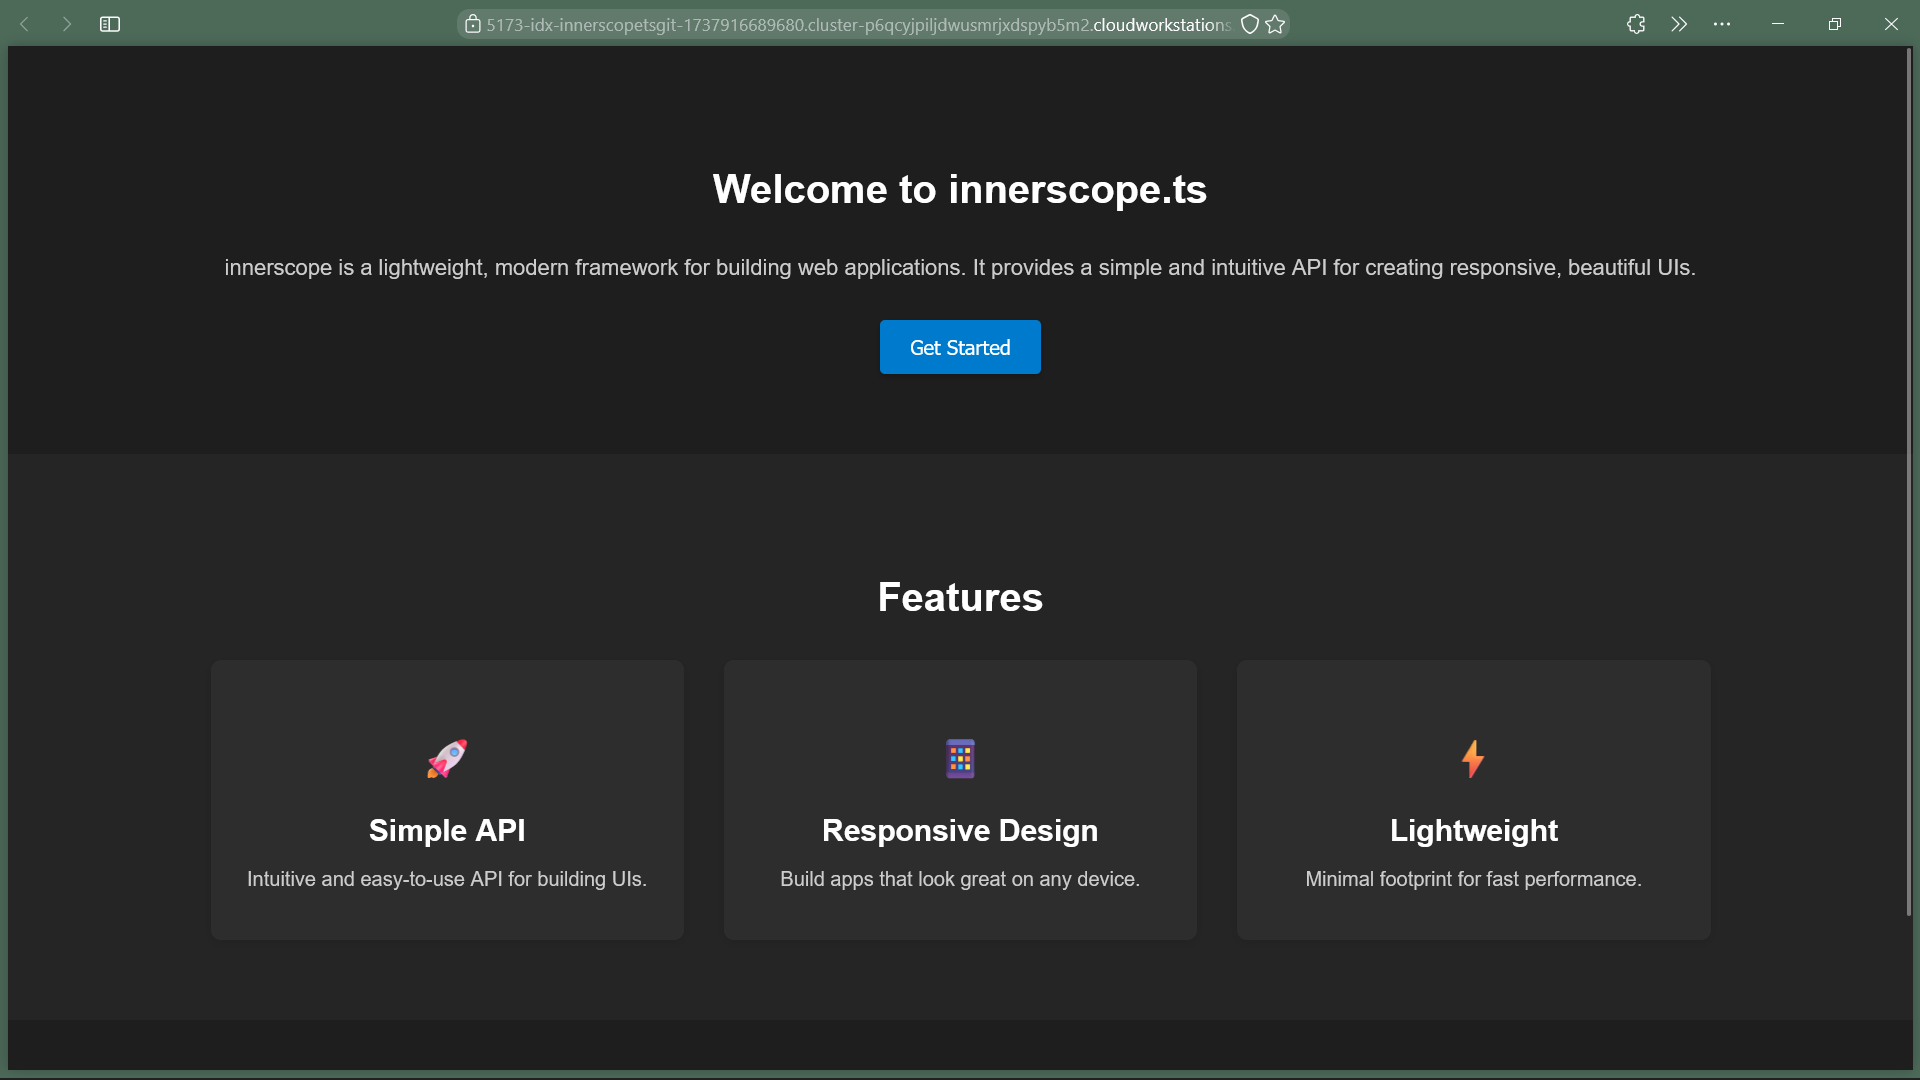
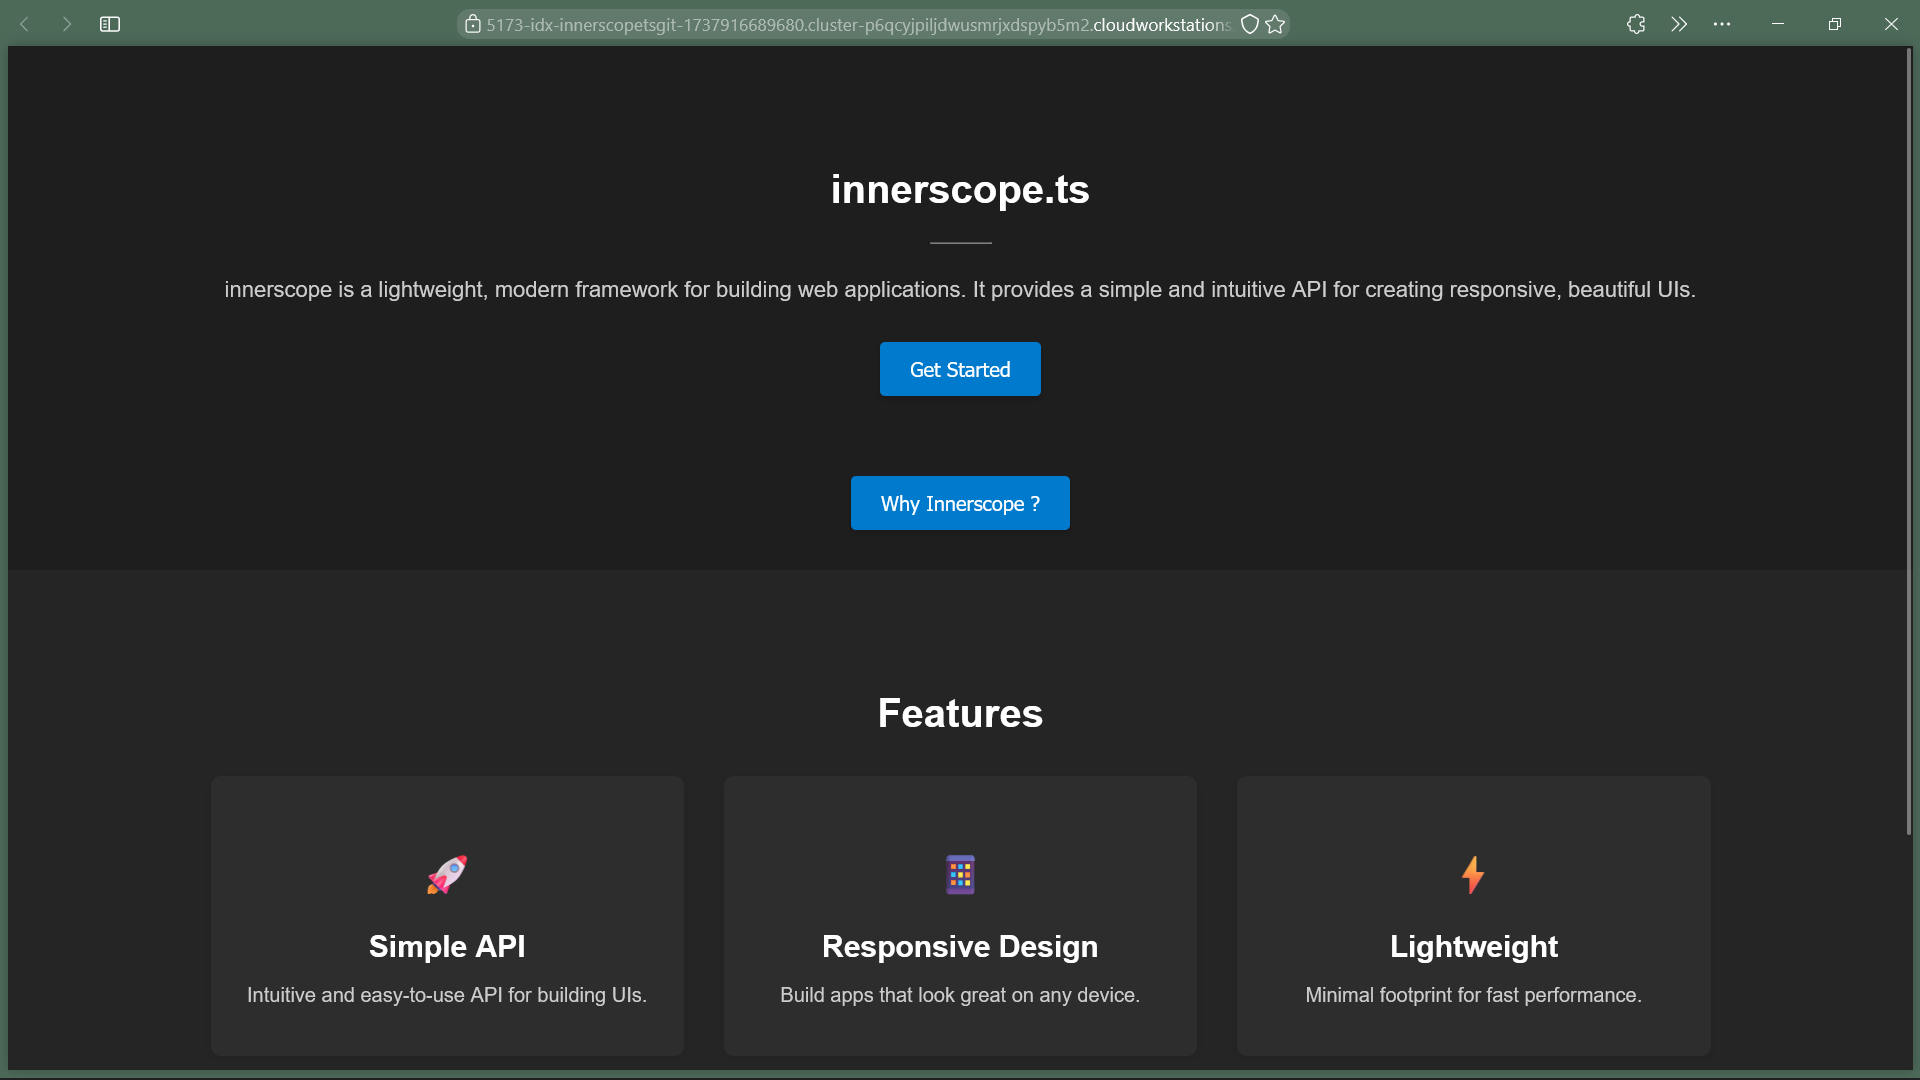
added useState (Signal Based) Hook, added showIF (Conditional Rendering) updated docs, and main.ts example

diff --git a/Lib/+innerscope.ts b/Lib/+innerscope.ts
@@ -1,3 +1,7 @@
+import { useState, showIF } from "./reactivity.js";
+
+export { useState, showIF }
+
 interface ApplicationConfig {
     title: string;
     icon: string;
@@ -20,14 +24,13 @@ export class Application {
             document.head.appendChild(meta);
         }
         cfg.title ? (document.title = cfg.title) : null;
-        //@ts-ignore
+        //@ts-ignore : TS does not have that function in type definition.
         cfg.orientation ? screen.orientation.lock(cfg.orientation) : null;
     }
 
     onExit(Fn: Function) {
         window.addEventListener("beforeunload", (event) => {
             event.preventDefault();
-            event.returnValue = "";
             Fn(event);
         });
     }
@@ -98,6 +101,7 @@ export class LayoutConstructor implements Parent {
     layout: HTMLElement;
     children: HTMLElement[];
     style: CSSStyleDeclaration;
+    
     constructor(layout_type: Layout_Types, parent: Parent | HTMLElement) {
         this.layout = new ElementContructor("div", parent).element;
         this.layout.className = `${layout_type}-layout show`;
@@ -107,16 +111,32 @@ export class LayoutConstructor implements Parent {
         this.children = Array();
     }
 
+    /**
+     * set the layouts scroll axis as x or y which also applies the direction
+     */
     set scrollDirection(direction: Scroll_Direction) {
         this.layout.classList.add(`scroll${direction}`);
     }
 
+    /**
+     * set a boolean to hide or view the scollbars visibility
+     */
+    set scrollBarVisibility(visibility: boolean) {
+        visibility ? this.layout.classList.add(`noscrollbar`) : this.layout.classList.remove(`noscrollbar`);    
+    }
+
+    /**
+     * set how children in a layout should be arranged
+     */
     set alignChildren(alignment: string) {
         alignment.split(" ").forEach((token) => {
             this.layout.classList.add(token);
         });
     }
 
+    /**
+     * parent fill is used if you want your layout to be fullscreen but on an axial position.
+     */
     set parentFill(fill: Parent_Fill) {
         this.layout.classList.add(`fill${fill}`);
     }

diff --git a/Lib/reactivity.ts b/Lib/reactivity.ts
@@ -1,31 +1,41 @@
-interface ReactiveValue<T> {
-    value: T;
-    subscribe: (subscriber: (value: T) => void) => void;
-}
 
-export function signal<T>(defaultValue: T): ReactiveValue<T> {
-    var reactiveValue = defaultValue;
-    const subscribers = Array();
+/**
+ * useState, is a signal and allows you to subscribe to changes on a value
+ * use the useEffect signal to run the function immediatley and on value 
+ * change, 
+ * use the useSubscriber  signal to only subscribe to changes.
+ */
+export function useState<T>(defaultState: T): [() => T, (value: T) => void, (fn: () => void) => void, (fn: () => void) => void] {
+    let reactiveProperty: T = defaultState;
+    const subscriptions: Array<() => void> = [];
 
-    function call_subscriber() {
-        for (const subscriber of subscribers) {
-            subscriber(reactiveValue);
+    function callEffect() {
+        for (const subscriber of subscriptions) {
+            subscriber();
         }
     }
 
-    function update_value(value: T) {
-        reactiveValue = value;
-        call_subscriber();
+    function setState(value: T) {
+        reactiveProperty = value;
+        callEffect();
     }
-    return {
-        get value() {
-            return reactiveValue;
-        },
-        set value(value: T) {
-            update_value(value);
-        },
-        subscribe(subscriber: (value: T) => void) {
-            subscribers.push(subscriber);
-        },
-    };
+
+    function getState(): T {
+        return reactiveProperty;
+    }
+
+    function useEffect(fn: () => void) {
+        subscriptions.push(fn);
+        fn();
+    }
+
+    function useSubscriber(fn: () => void) {
+        subscriptions.push(fn);
+    }
+
+    return [getState, setState, useEffect, useSubscriber];
+}
+
+export function showIF(element: HTMLElement, condition: boolean) {
+    condition ? element.classList.add("show") : element.classList.add("hide");
 }

diff --git a/main.ts b/main.ts
@@ -1,4 +1,4 @@
-import { Application, Layout, Button, Paragraph } from "./Lib/+innerscope.ts";
+import { Application, Layout, Button, Paragraph, HorizontalRule, showIF } from "./Lib/+innerscope.ts";
 
 const app = new Application({
     title: "innerscope Framework",
@@ -27,10 +27,12 @@ function LandingPage() {
     hero.style.padding = "64px 32px";
     hero.style.textAlign = "center";
 
-    const heroTitle = Paragraph("Welcome to innerscope.ts", hero);
+    const heroTitle = Paragraph("innerscope.ts", hero);
     heroTitle.style.fontSize = "2rem";
     heroTitle.style.fontWeight = "bold";
     heroTitle.style.marginBottom = "16px";
+
+    HorizontalRule(hero).style.width = '3rem'
 
     const heroDescription = Paragraph(
         "innerscope is a lightweight, modern framework for building web applications. " +
@@ -54,6 +56,19 @@ function LandingPage() {
     ctaButton.onclick = () => {
         alert("Let's build something amazing with innerscope!");
     };
+
+    const installButton = Button(`Why Innerscope ?`, page);
+    installButton.style.backgroundColor = "#007acc"; // Blue accent color
+    installButton.style.color = "#ffffff"; // White text
+    installButton.style.padding = "12px 24px";
+    installButton.style.borderRadius = "4px";
+    installButton.style.border = "none";
+    installButton.style.fontSize = "1rem";
+    installButton.style.cursor = "pointer";
+    installButton.style.boxShadow = "0 2px 4px rgba(0, 0, 0, 0.2)"; // Shadow for elevation
+    installButton.style.marginBottom = "32px";
+
+    showIF(installButton, true)
 
     // Features Section
     const features = Layout("linear", page);

diff --git a/README.md b/README.md
@@ -4,7 +4,7 @@
 <br>
 <div align="center">
     <img alt="MIT Licensed" src="https://img.shields.io/badge/license-MIT-blue.svg">
-    <img alt="Version Badge" src="https://img.shields.io/badge/version-0.1.0-brightgreen.svg">
+    <img alt="Version Badge" src="https://img.shields.io/badge/version-0.1.1-brightgreen.svg">
 </div>
 
 <br>
@@ -49,11 +49,10 @@ We prioritize stable releases and less complexity over abstraction.
 Here are future release dates, that are an estimate:
 
 02-02-2025 : 
-- Signals & Effective StateManagment Solution
-- ShowIF (Conditional Rendering) & Suspense
+- ✅ useState : Signal System       
+- ✅ ShowIF (Conditional Rendering) 
+- Suspense    
 - In-Built Router
-- Css In Js Solution, Similar To Stylex (Already Working, Check `parser.ts`)
-
 
 ## Key Features
 
